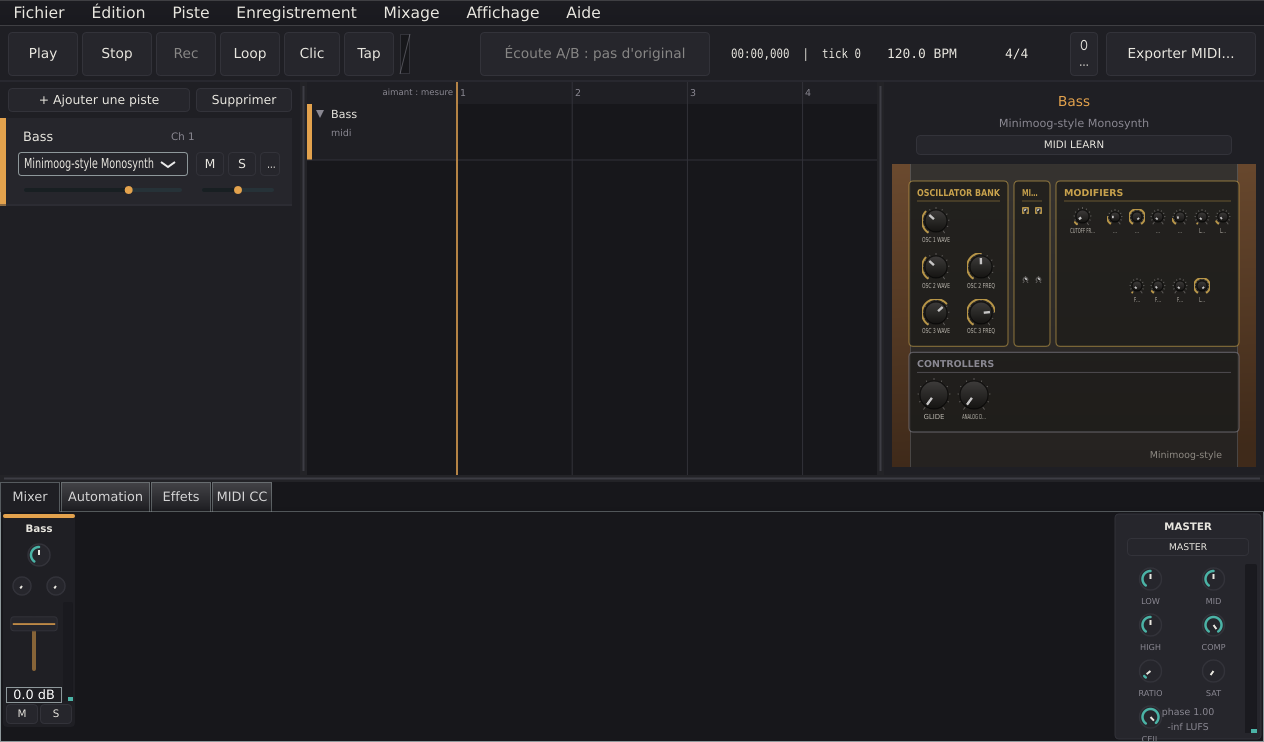
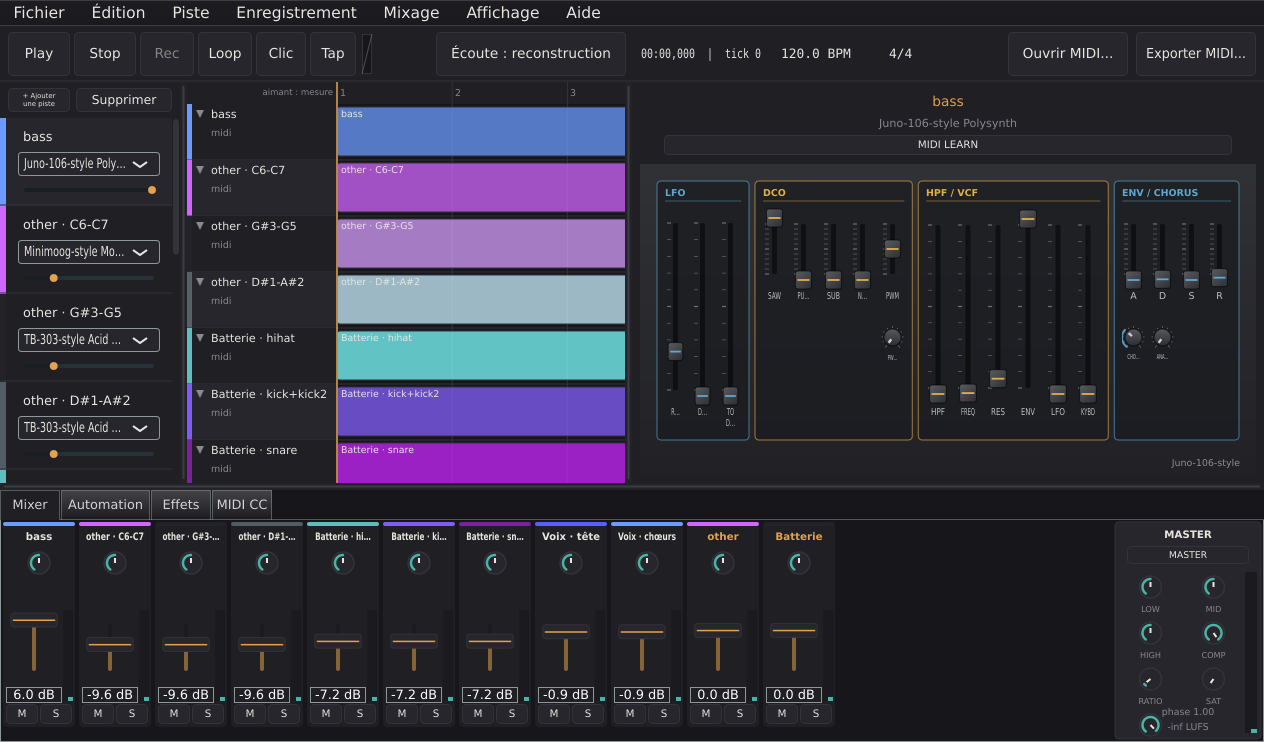
L'image d'accueil du manuel montre un projet en parite, et une barre de transport entiere
L'ancienne montrait un projet vide avec la barre de transport debordante
(« 0 … », pas de bouton Ouvrir).

Claude-Session: https://claude.ai/code/session_01UdNNhRj9xUCXzWBdAFSrcK

diff --git a/docs/MODE-EMPLOI.md b/docs/MODE-EMPLOI.md
@@ -17,7 +17,7 @@ Tout vit dans **une seule fenêtre** : le transport en haut, les pistes à gauch
 
 Pour déplacer librement les panneaux, *Affichage ▸ Fenêtre unique* se décoche : chaque panneau redevient une fenêtre indépendante, à poser où l'on veut. Les deux dispositions coexistent et chacune retient ses réglages.
 
-![La fenêtre unique : transport, pistes à gauche, arrangement au centre, rack de la piste sélectionnée à droite, console en bas.](images/manuel/fenetre-unique-arrangement.png)
+![La fenêtre unique, sur un projet reconstruit en parité (neuf pistes et deux bus de groupe) : transport, pistes à gauche, arrangement au centre, rack de la piste sélectionnée à droite, console en bas.](images/manuel/fenetre-unique-arrangement.png)
 
 *La fenêtre unique : transport, pistes à gauche, arrangement au centre, rack de la piste sélectionnée à droite, console en bas.*
 
